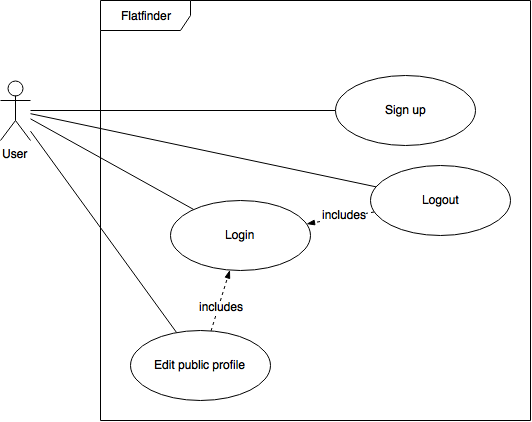
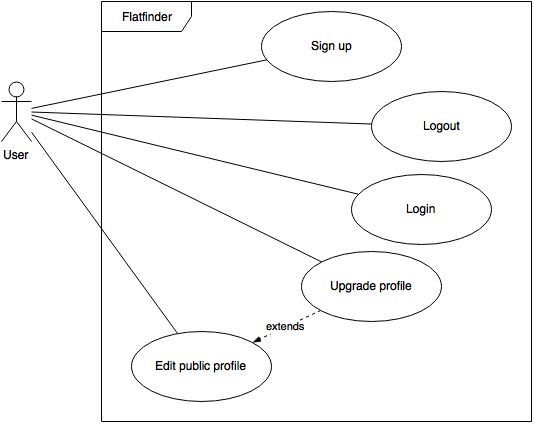
Updated srs.

diff --git a/documentation/srs.md b/documentation/srs.md
@@ -105,7 +105,8 @@ The following sections describe abbreviations and special terms used in this doc
 |uc25|Visit Ad belonging to an enquiry|The user of the web application|Low|2| 
 |uc26|View alerts|The user of the web application|Low|2| 
 |uc27|Subscribe to alert|The user of the web application|Med|1| 
-|uc28|Delete alert|The user of the web application|Low|2| 
+|uc28|Delete alert|The user of the web application|Low|2|
+|uc29|Upgrade account|The user of the web application|Med|1|
 
 
 #### User management
@@ -124,10 +125,11 @@ The following sections describe abbreviations and special terms used in this doc
 ||2. The login form and a link "sign up" is shown|
 ||3. The user clicks on the link "sign up"|
 ||4. The sign up form is shown|
-||5. The user enter his name, his email address, a password and selects his gender|
+||5. The user enter his name, his email address, a password and selects his gender. He selects the type of his account (normal or premium)|
 ||6. The user clicks on the button "Sign up"|
 ||7. The login page and a success message are shown|
 |**Alternate flow**|If the user doesn't fill up the entire sign up form in step 5, validation error messages are shown.|
+||If the user selects "premium" as account type in step 5, additional form elements to get his credit card information is shown.|
 
 |Use case element|Description|
 |:---|:---|
@@ -173,6 +175,20 @@ The following sections describe abbreviations and special terms used in this doc
 |**Normal flow**|1. The user hovers over his user image in the header line of the web portal|
 ||2. The user clicks on the appearing button "Logout"|
 ||3. The user is logged out and the start page of the web portal is shown|
+|**Alternate flow**|None|
+
+|Use case element|Description|
+|:---|:---|
+|**ID**|`uc29`|
+|**Name**|Upgrade user account|
+|**Description**|The user upgrades his account from normal to premium|
+|**Primary actor**|The user of the web application|
+|**Precondition**|The user is logged into the the application (`uc02`) and visits his profile page (`uc03`).|
+|**Trigger**|The user wants to upgrade his account to get more benefit of the application|
+|**Normal flow**|1. The user clicks on the button "Upgrade account"|
+||2. A form to get the credit card information of the user is shown|
+||3. The user fills out the form and clicks on "Save"|
+||4. The account is upgraded to premium|
 |**Alternate flow**|None|
 
 #### Searching and viewing ads
@@ -581,37 +597,49 @@ The real estate manager
 
 #### User management
 
-- The user can login to the application.
-Therefore he has to enters his email-address and his password into the login-form. 
-If he has no account yet, he can sign up as a new user.
+##### Login
 
-- For signing up as a new user he has to enter his first and last name, select his gender and give his email-address and a password, which has to be at least 6 characters long. If any of these informations aren't fill in, an error occurs, which tells the user that he must fill in a valid information.
+The user can login to the application. Therefore he has to enter his email-address and his password into the login-form. If he has no account yet, he can sign up as a new user.
+
+##### Signup
+
+For signing up as a new user he has to enter his first and last name, select his gender and give his email-address and a password, which has to be at least 6 characters long.
+
+The user can choose the account type. There are two account types (premium and normal) If the user chooses premium, he has to enter his credit card information during signup.
+
+If any of these informations aren't filled in, an error occurs, which tells the user that he must fill in a valid information.
+
+##### Logged in users
 
 A logged in user can:
 
 - logout
-- edit his public profile.There he can change his password, first name, last name, username and write something about himself. By clicking "update" his changes will be saved.
+- edit his public profile.There he can change his password, first name, last name, username and write something about himself. By clicking "update" his changes will be saved. Normal users can upgrade their account to a premium account there as well.
 
 
 #### Messaging system
 
 A logged in user can:
 
-- Send messages in two ways:
+- **Send messages** in two ways:
  + sending messages by visiting the advertiser Profile and clicking on the button "Message".Then he can enter the subject and his message and click on "Send" if the want to send the message or click on "Cancel" to exit the message form. If no subject is filled in, the message won't be send. If the subject is entered but no message, then the message wont'be send. Only of both( subject and message) are entered, the message will be send.
  + other way of sending messages is by sending the message from the users Profile. For the new message he has to specify to whom he wants to send the email and give in the subject and write his message. Then he can click either "send"(for sending the message) or "cancel"(for leaving the message form).If the user puts in a invalid email address of the recipient then there will appear a box saying :"This user does not exist". Again all information (to, subject, and message) have to be filled in, if not, the message won't be send.
 
-- view his sent messages. Furthermore  he can see in a chart the subject, sender, recipient and the date sent from each message he has ever sent. By clicking on a line from this chart he gets a view of the send message.
+- **view his sent messages**. Furthermore  he can see in a chart the subject, sender, recipient and the date sent from each message he has ever sent. By clicking on a line from this chart he gets a view of the send message.
 
-- view imcoming messages. Furthermore he can see in a chart the subject, sender, recipient and the date sent from the each message he has received. By clicking on a line from this chart he gets a view of the message.
+- **view imcoming messages**. Furthermore he can see in a chart the subject, sender, recipient and the date sent from the each message he has received. By clicking on a line from this chart he gets a view of the message.
 
-- **New** User can now receive real email to his email adress, not only messages to internal inbox.
+##### E-Mail
 
-- **New** Automatic sendig (from the system) of alerts by email and by the inbox ????
+Messages to the inbox of the user aren't just sent to the internal inbox of the application. The user also receives them by email.
 
 #### Searching and viewing ads
 
-A user can search for ads by clicking the search button whether or not he's logged in. The initial search is filtered by zip code with max radius and max price. After the result is displayed, the user can choose to:
+A user can search for ads by clicking the search button whether or not he's logged in. The initial search is filtered by zip code with max radius and max price.
+
+In the result lists, the ads of premium users are displayed slightly different than the ads of normal users, to catch more attention. They're also ranked higher than normal ads (see section "User roles" below).
+
+After the results are displayed, the user can choose to:
 
 - *Sort search:* The search results can be sorted by: ascending or descending price, move-in date earliest to latest or latest to earliest, or by the date the ad was created, youngest to oldest or oldest to youngest. 
 
@@ -631,23 +659,13 @@ From the view of the ad, the user can:
 
 - View ad location. The address in the information box on the top left is clickable and will redirect the user to google maps where the address is shown.
 
-- **NEW** View distance from schools and public transport.
-
-- **NEW** Search capabilities extended to cover more/different filter criteria.
-
-- **NEW** User can search for properties for sale as well as for rent. 
-
-- **NEW** Ads belonging to premium users are at the top of the search and have bigger pictures than the ads from normal users.
-
-- **NEW** Auction function from the view of ads for sale.
-
 #### Alerts 
 
-A logged in user can view and modify his alerts by choosing "Alerts" from the Profile drop-down menu. He can create a new alert by filling in the initial search criteria and clicking "Subscribe". Below where the user can create new alerts is "Your active alerts", where he can vew a list of alerts in a table with type, city, radius, max price and a column "Action" with a button to delete the alert.
+A logged in user can view and modify his alerts by choosing "Alerts" from the Profile drop-down menu. He can create a new alert by filling in the initial search criteria and clicking "Subscribe". Below where the user can create new alerts is "Your active alerts", where he can view a list of alerts in a table with type, city, radius, max price and a column "Action" with a button to delete the alert.
 
-- **NEW** A user can create search alerts which notify him about new ads corresponding more search criteria.
-- **NEW** Alerts are sent both to message inbox and by email to the user.
-- **NEW** Premium users get alerts instantly, regular users get them once a day.
+If an alert is triggered, the user gets a message to his inbox in the application. The message is also sent to his mail account.
+
+The application distinguishes between normal and premium users (see section 'User roles' below).
 
 
 #### Placement of advertisements
@@ -657,24 +675,33 @@ A real estate manager can create a new advertisement for real estate. An adverti
 The following general information can be declared:
 
 - The *title* of the advertisement (text)
-- The *type* of the real estate (room or studio)
+- The *type* of the real estate (appartment, house, villa, loft, studio)
 - The *location* of the real estate (*street* and *zip code*)
 - The *move-in date*
 - The *move-out date* (optional)
-- The *price per month*
+- The *construction / renovation date*
+- The *price* (per month for renting or total price for buying)
 - The *size* of the real estate in square meters
+- The *number of rooms*
 
 The following *additional attributes* of the real estate can be specified in a yes/no manner:
 
-- animals are allowed
-- smoking inside is allowed
-- a garden belongs to the real estate
-- a cellar or attic belongs to the real estate
-- cable TV is available
-- WIFI is available
-- the real estate is furnished
-- a balcony or patio belongs to the real estate
-- a garage belongs to the real estate
+- a *balcony* belongs to the real estate
+- a *garage* or *parking space* belongs to the real estate
+- *elevator* available
+- *dishwasher* available (only for rent)
+
+The following attributes can be specified in 100 m steps up to 1 km:
+
+- distance to *public transport*
+- distance to *shopping possibilities*
+- distance to *schools*
+
+The following information can be specified with a number or with a selection of options:
+
+- *floor level*
+- number of *bath rooms*
+- type of *infrastructure* for TV/internet (satellite, fiber, cable etc.)
 
 Additionally a *textual description* of the real estate can be added to the ad.
 
@@ -684,11 +711,18 @@ The advertiser can state his *preferences* in questions of tenants with a textua
 
 The advertiser can specify multiple possible *visiting times* for enquiries. A visiting time is specified by a date, a start time and an end time. This is not mandatory.
 
-**NEW** User can choose between whether he wants to rent or sell his property and open an auction or decide on a fix price in the case of selling
+The advertiser can specify, whether he wants to sell or rent a real estate.
+
+If he chooses to sell real estate, he can sell it by *auction*. If he chooses so, he can specify the following parameters of the auction:
+
+- *start time* and *end time*
+- *start price*
+- *increment* of the price
+- *direct buy* price
 
 #### User roles
 
-**NEW** The application distinguishes two different user types: *premium* and *normal*.
+As already mentioned, the application distinguishes two different user types: *premium* and *normal*.
 
 The application behaves different for the different user roles as follows:
 
@@ -737,4 +771,4 @@ A table of the flats a user is interested in and will or has already visited, co
 
 #### Design of the application
 
-The application should have a modern look and feel.
+The application should have a modern look and feel. It should be mobile ready.
